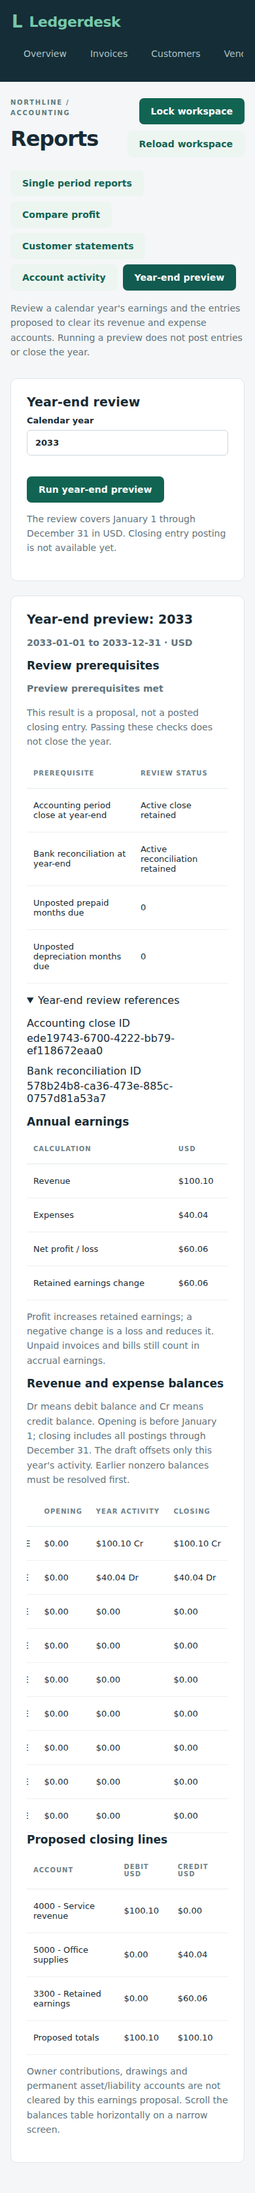
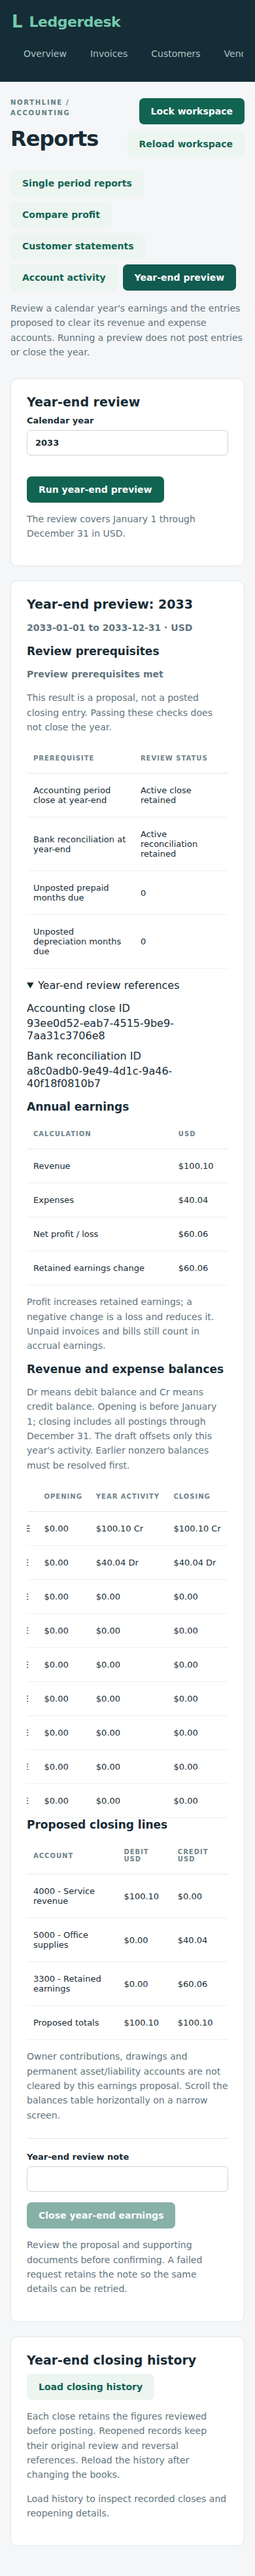
Document browser earnings controls and save reviewed closing history proof

Changed region(s): [[0.0, 0.0, 1.0, 0.9931]]

diff --git a/docs/year-end-posting.md b/docs/year-end-posting.md
@@ -1,6 +1,6 @@
 # Posting a calendar-year earnings close
 
-The owner API can now post the proposal reviewed under **Reports → Year-end preview**. The browser currently supports review only; posting and history controls are separate work. A posted close clears revenue and expense balances, transfers profit or loss to retained earnings, and retains the figures and supporting review IDs used for the decision.
+Owners can post the proposal reviewed under **Reports → Year-end preview** and inspect or reopen recorded closes from its history section. The owner API supports the same operations. A posted close clears revenue and expense balances, transfers profit or loss to retained earnings, and retains the figures and supporting review IDs used for the decision.
 
 ## Prepare and post
 
@@ -55,7 +55,7 @@ The business posting lock serializes closing and competing writes. The proposal,
 
 The closing journal is a controlled exception to the already reviewed period's posting cutoff. Ordinary backdated entries remain blocked. A supporting accounting period cannot be reopened while its earnings close is active, so its bank reconciliation remains protected too. Year-end reopening reverses the actual closing lines while preserving operating reports and original review history, as described below.
 
-This remains a local, single-business USD application with calendar-year earnings closing. Custom fiscal years, dividend closing, tax filing, complete opening trial-balance migration and browser posting/history/reopening controls are not implemented. Existing general database restoration checks are regression evidence; restoring a populated year-end close is a separate recovery fixture still to add.
+This remains a local, single-business USD application with calendar-year earnings closing. Custom fiscal years, dividend closing, tax filing, complete opening trial-balance migration are not implemented. Existing general database restoration checks are regression evidence; restoring a populated year-end close is a separate recovery fixture still to add.
 
 `YearEndPostingTest` covers the worked profit, loss/zero/empty cases, report preservation, retained evidence, consecutive years, exact retries, duplicates, protected dates, rollback, concurrent requests and authenticated read/owner-write permissions on both databases. The [preview guide](year-end.md) provides the accounting basis and reviewed screen captures.
 
@@ -87,4 +87,36 @@ For the worked $60.06 profit, reopening restores $100.10 credit revenue, $40.04 
 The migration retains populated closing rows and replaces the original one-record-per-year uniqueness rule with one active close per year. The active-year key is cleared on reopening. Reversal, history, request key and audit changes remain one transaction under the business posting lock; failed or competing requests cannot leave a partial or duplicate reversal.
 
 
-Reopening source `c5468e410570bc2f9b64ae259f6d84bca029765c` passed 315 integration tests on each of H2 and PostgreSQL 17 with zero failures/errors/skips, 14 backup-tool tests, production build, all 27 existing Chromium workflows and native PostgreSQL restoration in [run 37246856587](https://github.com/Arhaam-Azhari/ledgerdesk/actions/runs/37246856587). Eight reopening tests and one populated-migration test exercise the new behavior on both databases. These checks verify reversing profit/loss/empty closes, preserved full reports and comparisons, retained snapshots, ordered later-year/period controls, corrections and repeated closes, exact retries, invalid versions/reasons, rollback, concurrency, owner-only writes and preservation of existing V24 closing rows. Browser checks remain regression evidence; browser reopening and populated year-end recovery fixtures are later work.
+Reopening source `c5468e410570bc2f9b64ae259f6d84bca029765c` passed 315 integration tests on each of H2 and PostgreSQL 17 with zero failures/errors/skips, 14 backup-tool tests, production build, all 27 existing Chromium workflows and native PostgreSQL restoration in [run 37246856587](https://github.com/Arhaam-Azhari/ledgerdesk/actions/runs/37246856587). Eight reopening tests and one populated-migration test exercise the new behavior on both databases. These checks verify reversing profit/loss/empty closes, preserved full reports and comparisons, retained snapshots, ordered later-year/period controls, corrections and repeated closes, exact retries, invalid versions/reasons, rollback, concurrency, owner-only writes and preservation of existing V24 closing rows. Browser checks remain regression evidence; the later browser controls milestone adds end-to-end UI evidence; populated year-end recovery fixtures remain later work.
+
+
+## Post, inspect and reopen in Reports
+
+Owners can run **Reports → Year-end preview**, resolve the blockers and inspect the proposed lines. Enter a **Year-end review note**, click **Close year-end earnings**, and confirm the year. The button is disabled until prerequisites pass and the note is nonblank. A successful operation refreshes the workspace and clears the old proposal.
+
+Click **Load closing history** to inspect recorded cycles. Each record shows its year, dates, status, version, review note, closing identity/time and any reopening reason/identity/time. Expand **Closing evidence references** for the close, journal, accounting review, bank review and reversal IDs. Expand **Retained earnings review** for the original accrual figures and balanced proposed lines. These are the saved pre-posting figures, not today's account balances.
+
+Only the latest active close offers **Reopen earnings year** to owners. Enter a **Year-end reopening reason** and confirm. Later accounting reviews must be reopened first; a server rejection retains your reason so you can resolve the blocker and retry. Successful reopening refreshes the workspace and clears old history. Load it again to inspect the retained reversal. Its supporting accounting and bank reviews remain closed until separately reopened.
+
+If posting or reopening loses its response, keep the same note/reason and retry. The form retains those details, and the shared request handler keeps the same key until both the operation and workspace refresh succeed. A successful reclose creates a new record; earlier reopened cycles remain in history. Changing the year clears the proposal and review note. A workspace reload clears proposal/history and any selected reopening. Leaving this report resets its local forms.
+
+Bookkeepers and reviewers can run previews and inspect retained history without posting or reopening controls. Busy state disables inputs, confirmations and report modes. Failed history reads clear old history and show the error; **Load closing history** retries the read. There is no separate year-end export yet.
+
+
+## Browser proof
+
+Controls source `efe17823c9dd86d3889eb2aa815e4f25afe2e041` passed 315 integration tests on each of H2 and PostgreSQL 17 with zero failures/errors/skips, 14 backup-tool tests, production build, all 28 Chromium workflows and native PostgreSQL restoration in [run 37247930933](https://github.com/Arhaam-Azhari/ledgerdesk/actions/runs/37247930933).
+
+The new isolated controls fixture uses a December 31, 2039 bank opening, a $100.10 unpaid invoice and a $40.04 unpaid bill during 2040, and real December 31 bank/accounting closes. It posts $60.06 earnings, inspects the retained proposal and references, reopens with a reason, and closes again with one active and one retained reopened record. The dates are fictional accounting dates; the closing timestamps show when the test actually ran.
+
+The browser deliberately receives a 503 after the server has successfully posted a close, then retries with the same note and request key. It repeats that loss-after-commit check for reopening. Both recoveries retain one close/reversal and preserve the original snapshot. The workflow also checks missing prerequisites, blank-note/reason gating, confirmation cancellation, history read failure/retry, clearing after workspace refresh, 390-pixel layout, and unchanged $60.06 operating profit and balanced reports after reclose. Reviewer and bookkeeper fixtures load history and verify that write controls are absent; their history fixture is empty, while the owner fixture exercises populated history.
+
+Original desktop/mobile captures were downloaded and visually reviewed. The preview captures in the [review guide](year-end.md) were replaced with this run's current controls. The following show distinct recorded and reopened states:
+
+![Closed earnings history with retained proposal and source references](screenshots/year-end-closing-history.png)
+
+![Mobile closed earnings history](screenshots/mobile-year-end-closing-history.png)
+
+![Mobile reopened earnings history with preserved review and reversal reference](screenshots/mobile-year-end-reopened-history.png)
+
+A populated year-end restore fixture remains the next recovery check; general PostgreSQL restoration in this run does not yet populate these closing records.

diff --git a/docs/year-end.md b/docs/year-end.md
@@ -1,6 +1,6 @@
 # Calendar-year earnings preview
 
-This API prepares a read-only review of the revenue and expense balances for January 1 through December 31. It shows the offsets that would clear that year's activity and transfer net profit or loss to retained earnings account 3300. The browser screen supports read-only review. The [owner posting API](year-end-posting.md) now posts the reviewed proposal, retains closing history and preserves operating profit reports. Browser posting/history/reopening controls remain later work.
+This API prepares a read-only review of the revenue and expense balances for January 1 through December 31. It shows the offsets that would clear that year's activity and transfer net profit or loss to retained earnings account 3300. Running the preview itself is read-only; owners can separately post or reopen earnings from this screen. The [owner posting API](year-end-posting.md) now posts the reviewed proposal, retains closing history and preserves operating profit reports. The browser also shows retained closing history and owner posting/reopening controls.
 
 ## Run a preview
 
@@ -49,13 +49,13 @@ Source `fe1b246cf0086bc533d4921f36946dcc9a3ba5bb` passed 298 integration tests o
 
 Open **Reports → Year-end preview**, enter a whole calendar year between 1 and 9999, and click **Run year-end preview**. The result shows the annual accrual revenue/expenses and net profit or loss, the corresponding retained-earnings change, and each temporary account's opening, year activity and closing. Dr/Cr presentation preserves credit and unusual account balances.
 
-Read **Review prerequisites** before using the proposal. Missing/reopened December 31 reviews and unfinished scheduled adjustments appear alongside earlier earnings balances and any accounting differences. Active close IDs can be inspected under **Year-end review references**. **Preview prerequisites met** means these checks passed; it does not mean a closing entry was posted. There is no posting button.
+Read **Review prerequisites** before using the proposal. Missing/reopened December 31 reviews and unfinished scheduled adjustments appear alongside earlier earnings balances and any accounting differences. Active close IDs can be inspected under **Year-end review references**. **Preview prerequisites met** means these checks passed; it does not mean a closing entry was posted. Owners can separately enter a review note and confirm **Close year-end earnings**.
 
 The proposed debit/credit lines and totals appear below the balances. A year without activity has no proposed lines; it can still have blockers from earlier years. Profit increases retained earnings, while a negative change indicates a loss. Owner transfers and permanent account balances are retained separately.
 
 Changing the year, reloading the workspace or leaving this report clears the result. During a request, year and mode controls are disabled. A failed request clears the old proposal and displays an error; run it again after resolving the failure. This is an on-screen review; a dedicated year-end export is not implemented.
 
-The balances table scrolls horizontally on a narrow screen; the rest of the review fits the viewport. Owner, bookkeeper and reviewer accounts can run this screen.
+The balances table scrolls horizontally on a narrow screen; the rest of the review fits the viewport. Owner, bookkeeper and reviewer accounts can run previews and inspect history. Posting and reopening controls are owner-only.
 
 
 ## Screen proof
@@ -71,3 +71,5 @@ The test checks invalid whole-year inputs, failed-read retry, disabled controls 
 ![Mobile year-end review with the balances table scrolled right](screenshots/mobile-year-end-preview.png)
 
 The [posting guide](year-end-posting.md) explains the new owner API, retained history, report treatment, repeat-request behavior and latest-year reopening controls. For a closed year, this screen displays the retained pre-posting proposal with an already-closed blocker.
+
+The current preview captures above were refreshed from browser-controls source `efe17823c9dd86d3889eb2aa815e4f25afe2e041` in [run 37247930933](https://github.com/Arhaam-Azhari/ledgerdesk/actions/runs/37247930933). They now include the owner review-note/confirmation controls and shared history section. The earlier captures were replaced. See [posting and history screen proof](year-end-posting.md#browser-proof) for recorded and reopened closes.

diff --git a/README.md b/README.md
@@ -182,7 +182,7 @@ npm run test:reconciliation
 
 Keep ports 8081 and 5174 free. Playwright starts and stops both isolated servers. This workflow covers reconciliation preview, close, refresh-failure retry, closed-period protection, saved calculations, reopening, and mobile layout.
 
-All 315 backend integration tests passed on each of H2 and PostgreSQL 17, alongside 14 backup-tool tests, twenty-seven Chromium workflows and a real PostgreSQL backup/restore process check on GitHub Actions. See [verification notes](docs/verification.md) for the checks completed locally and on GitHub Actions.
+All 315 backend integration tests passed on each of H2 and PostgreSQL 17, alongside 14 backup-tool tests, twenty-eight Chromium workflows and a real PostgreSQL backup/restore process check on GitHub Actions. See [verification notes](docs/verification.md) for the checks completed locally and on GitHub Actions.
 
 ## Next milestones
 
@@ -329,4 +329,4 @@ Open **Reports**, choose **Customer statements**, select a customer and inclusiv
 
 The account activity API connects one ledger account's opening balance, period debit/credit lines and closing balance to source evidence. Its signed debit-minus-credit convention preserves credit and unusual balances, and closing agrees with the dated trial balance. The [worked example and API instructions](docs/account-activity.md) explain the calculation. Open **Reports → Account activity**, select an account and dates, then run it. Balances show Dr/Cr; expand posting references or export signed CSV evidence.
 
-The [calendar-year earnings preview](docs/year-end.md) prepares balanced revenue/expense offsets and a retained-earnings transfer through an authenticated read-only API. It checks earlier balances, year-end reviews and due adjustments. Open **Reports → Year-end preview** to inspect the draft and supporting review references. The [owner posting API](docs/year-end-posting.md) closes the reviewed earnings, retains the proposal and preserves operating profit reports. The latest active earnings close can be reopened with a version and reason while retaining its reversal and original review. Browser posting/history/reopening controls remain later steps.
+The [calendar-year earnings preview](docs/year-end.md) prepares balanced revenue/expense offsets and a retained-earnings transfer through an authenticated read-only API. It checks earlier balances, year-end reviews and due adjustments. Open **Reports → Year-end preview** to inspect the draft and supporting review references. The [owner posting API](docs/year-end-posting.md) closes the reviewed earnings, retains the proposal and preserves operating profit reports. The latest active earnings close can be reopened with a version and reason while retaining its reversal and original review. Owners can post with a review note and confirm, then load retained history or reopen the latest active close with a reason. Bookkeepers and reviewers can inspect history without write controls.

diff --git a/docs/verification.md b/docs/verification.md
@@ -324,3 +324,10 @@ See [posting instructions, report treatment and limits](year-end-posting.md). Br
 PR #36 source `c5468e410570bc2f9b64ae259f6d84bca029765c` passed all three jobs in [run 37246856587](https://github.com/Arhaam-Azhari/ledgerdesk/actions/runs/37246856587): 315 integration tests on each of H2 and PostgreSQL 17 with zero failures/errors/skips, 14 backup-tool tests, production build, all 27 existing Chromium workflows and native PostgreSQL restoration.
 
 Eight reopening tests restore original account balances and complete dated financial reports without changing operating profit or comparisons, retain the original snapshot and journal, verify corrected/repeated closing cycles, protect later year/period reviews, handle loss/empty cases, reject stale versions and invalid reasons, preserve exact retries, roll back failed writes, serialize competing reopenings and enforce owner/CSRF/request-key permissions. A separate populated V24 migration test checks every original closing field and journal line on both databases and verifies the one-active-close constraint after upgrading. See [reopening, correction order and API instructions](year-end-posting.md#reopen-correct-and-close-again). Browser posting/history/reopening controls and populated year-end restore fixtures remain separate work.
+
+
+## Browser year-end posting, history and reopening
+
+PR #37 source `efe17823c9dd86d3889eb2aa815e4f25afe2e041` passed all three jobs in [run 37247930933](https://github.com/Arhaam-Azhari/ledgerdesk/actions/runs/37247930933): 315 integration tests on each of H2 and PostgreSQL 17 with zero failures/errors/skips, 14 backup-tool tests, production build, all 28 Chromium workflows and native PostgreSQL restoration.
+
+The isolated controls fixture posts/reopens actual server records while deliberately losing their successful responses, verifies retained form details and identical retry keys without duplicate closes/reversals, inspects saved figures and evidence, confirms cancellation and prerequisite gating, recloses with preserved original history, retries failed history reads, clears stale views after workspace refresh and checks preserved $60.06 profit with balanced reports. Reviewer/bookkeeper fixtures inspect empty history and verify absent writes; owner checks use populated history. Original desktop/mobile preview captures were replaced with this run's current controls, and distinct closed/reopened history captures were downloaded and visually reviewed. See [instructions, fixture figures and screenshots](year-end-posting.md#browser-proof). Populated year-end restoration remains a separate fixture to add.

diff --git a/docs/project-status.md b/docs/project-status.md
@@ -18,7 +18,7 @@ Ledgerdesk currently works as a local, single-business USD accounting applicatio
 | Broader access | Routine bookkeeper permissions implemented; business selection and complete business isolation remain |
 | Opening bank balance | Cleared nonnegative opening, retained setup, first-statement carry-forward and H2/PostgreSQL restoration verified |
 | Period review | Month-end prerequisite checks, retained reports, owner close/reopen history, date protections and H2/PostgreSQL restoration verified |
-| Year-end earnings | Calendar-year proposal, browser review, owner posting/reopening APIs, retained snapshots/reversals and operating-report preservation implemented; browser posting/history/reopening controls remain |
+| Year-end earnings | Calendar-year proposal, owner posting/reopening APIs and browser controls, shared retained history, snapshots/reversals and operating-report preservation implemented; populated closing restoration fixture remains |
 | Accounting completeness | Complete opening trial-balance migration, fiscal-year closing and additional adjustment types remain |
 | Operations | Encrypted backup storage, scheduled retention and broader recovery fixtures remain |
 

diff --git a/docs/development-history.md b/docs/development-history.md
@@ -40,6 +40,7 @@ Ledgerdesk grew from an invoicing workspace into a local accounting application.
 | [#34](https://github.com/Arhaam-Azhari/ledgerdesk/pull/34) | Review year-end earnings, balances, proposed closing lines and prerequisites in Reports |
 | [#35](https://github.com/Arhaam-Azhari/ledgerdesk/pull/35) | Post reviewed earnings closes, retain history and preserve operating profit reports |
 | [#36](https://github.com/Arhaam-Azhari/ledgerdesk/pull/36) | Reopen the latest earnings close with retained reversals, reviewed corrections and replacement closes |
+| [#37](https://github.com/Arhaam-Azhari/ledgerdesk/pull/37) | Post and reopen earnings in Reports with shared retained history and lost-response recovery |
 
 The descriptions record the supported scope and remaining work at that milestone. For example, the reviewer PR used configured logins; the later account PR added database-backed users. Read the current README and feature guides for today's behavior.
 
